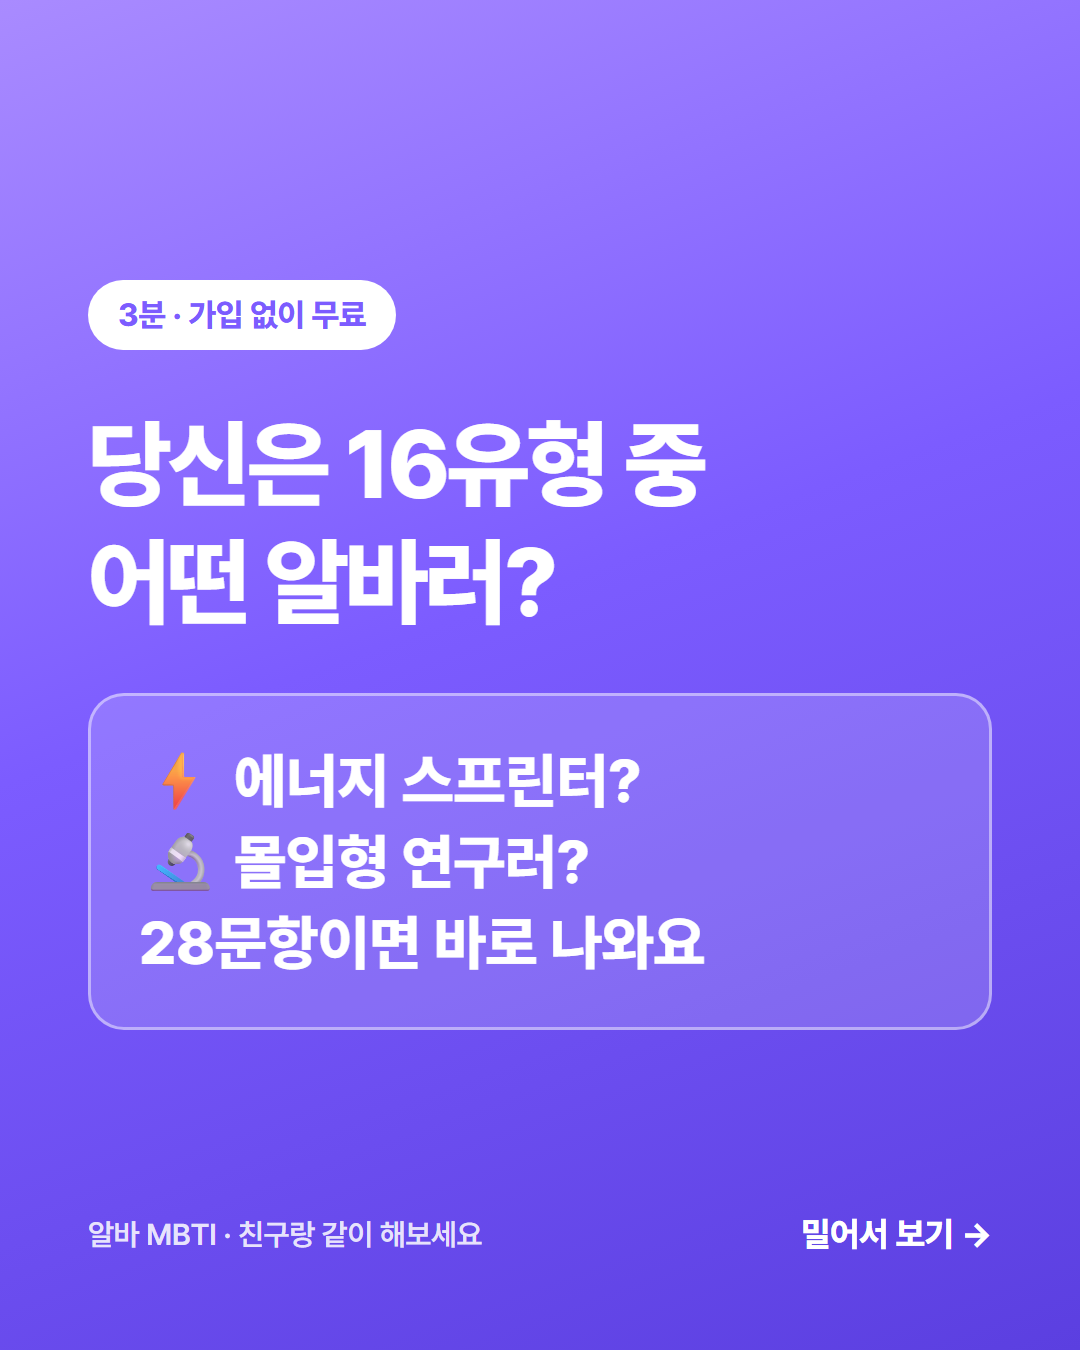
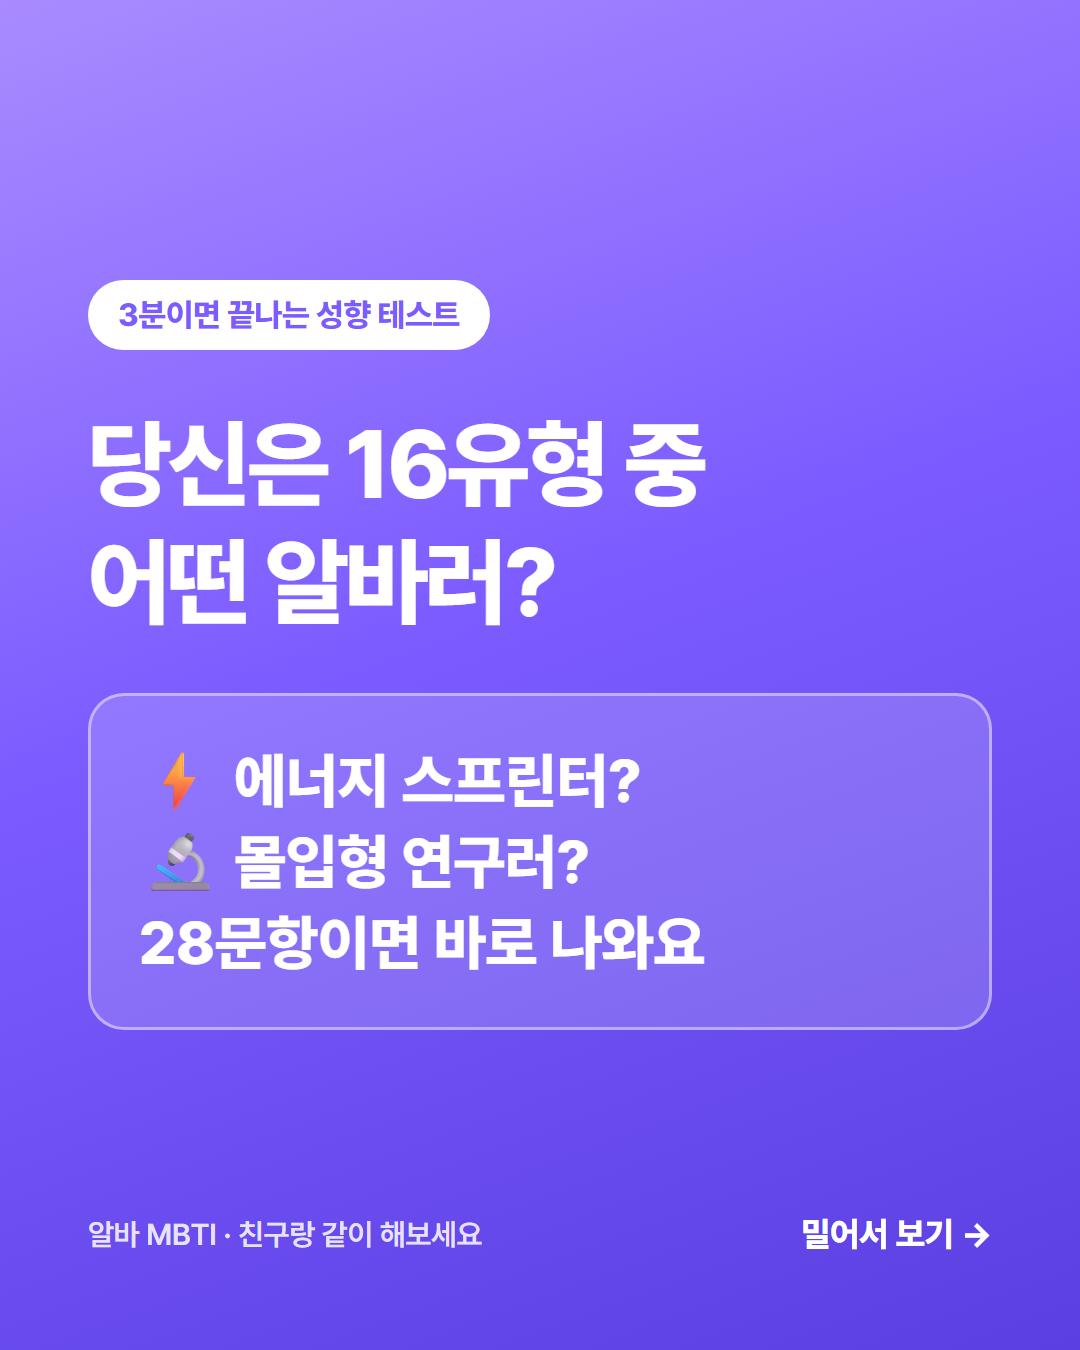
chore: 홍보물·앱 문구에서 가격 소구(무료·결제·가입 없이) 제거
로그인 게이트가 생겨 가입 없이 볼 수 없고, 과금 정책도 다시 바뀔 수 있다.
홍보물이 그때마다 발목 잡히지 않도록 가격 얘기를 아예 빼고 내용 가치로만 소구한다.

- 카드뉴스 4세트: CTA/커버 배지/캡션의 무료·결제·가입 문구 삭제, 해시태그 #무료테스트 제거
- og/twitter/description 메타: 가격 문구 삭제
- 앱: MBTI 시작 화면 안내와 심화 가이드 무료 배지(→ 11편)를 내용 기준으로 교체
- intro.md: 소개글 전 포맷 갱신 + 카피 원칙(가격 언급 금지) 명시

고용노동부 1350 무료 상담처럼 앱이 아닌 정부 서비스의 무료 언급은 사실이라 유지한다.

Changed region(s): [[0.1528, 0.1867, 0.4583, 0.28]]

diff --git a/promo/slides.js b/promo/slides.js
@@ -1,6 +1,7 @@
 /* 인스타 홍보 카드뉴스 데이터 — 앱(public/index.html)의 GUIDE 내용을 근거로 작성.
    4개 캐러셀 세트, 각 슬라이드 1080x1350(4:5).
-   앱은 전면 무료(가입·결제 없음) — 카피 전반에서 이 점을 훅으로 쓴다.
+   카피에서 가격 얘기(무료·결제·가입 없이)는 하지 않는다. 로그인해야 내용을 볼 수 있고,
+   과금 정책도 바뀔 수 있어서 홍보물이 발목 잡히지 않게 내용 가치로만 소구한다.
    수치는 앱과 일치: 28문항 · 16유형 · 알바 43종 · 심화 가이드 11편. */
 
 module.exports = [
@@ -29,15 +30,15 @@ module.exports = [
 28문항 3분이면 내 유형이 나와요. 이모지·별명이 붙은 내 유형 해설, 4축 성향 그래프, 그리고 알바 43종 중에서 고른 찰떡 알바 TOP 3까지. 반대로 '나랑 상극인 알바'도 알려줘요 😅
 
 결과 캡처해서 친구 유형이랑 비교해보세요. 같이 일하면 잘 맞을지도 보여요.
-👉 albamates.com (프로필 링크) · 가입도 결제도 없이 무료
+👉 albamates.com (프로필 링크)
 
 내 유형 댓글로 남겨주세요! 다들 뭐 나왔어요? 👇
 
-#알바MBTI #알바 #첫알바 #알바추천 #성향테스트 #MBTI #심리테스트 #유형테스트 #대학생알바 #알바생 #알바메이트 #무료테스트 #친구태그 #저장각`,
+#알바MBTI #알바 #첫알바 #알바추천 #성향테스트 #MBTI #심리테스트 #유형테스트 #대학생알바 #알바생 #알바메이트 #친구태그 #저장각`,
     slides: [
       {
         type: "cover",
-        kicker: "3분 · 가입 없이 무료",
+        kicker: "3분이면 끝나는 성향 테스트",
         title: "당신은 16유형 중\n어떤 알바러?",
         highlight: "⚡ 에너지 스프린터?\n🔬 몰입형 연구러?\n28문항이면 바로 나와요",
         foot: "알바 MBTI · 친구랑 같이 해보세요",
@@ -87,9 +88,9 @@ module.exports = [
       {
         type: "cta",
         title: "당신은\n어떤 유형일까요?",
-        body: "28문항 3분 · 16유형 중 내 유형.\n가입도 결제도 없이 결과까지 무료.",
+        body: "28문항 3분 · 16유형 중 내 유형.\n찰떡인 알바 TOP 3까지 알려드려요.",
         app: "알바 메이트",
-        foot: "albamates.com · 100% 무료",
+        foot: "albamates.com",
       },
     ],
   },
@@ -105,7 +106,7 @@ module.exports = [
 
 "알바는 주휴수당 없다"는 그냥 틀린 말이에요. 5인 미만 사업장도 예외 없이 지급 대상입니다. 시급에 자동으로 포함해주지 않으면 따로 청구할 수 있고, 못 받았다면 그건 임금체불이에요. 고용노동부 1350에서 무료로 상담·진정할 수 있습니다.
 
-내 시급으로 얼마인지 궁금하다면 → 프로필 링크의 '알바 메이트'에 주휴수당·야간수당까지 더해서 월 예상 급여를 뽑아주는 월급 계산기가 있어요. 계약서·최저시급·면접 가이드까지 전부 무료예요.
+내 시급으로 얼마인지 궁금하다면 → 프로필 링크의 '알바 메이트'에 주휴수당·야간수당까지 더해서 월 예상 급여를 뽑아주는 월급 계산기가 있어요. 계약서·최저시급·면접 가이드까지 한 곳에 정리돼 있어요.
 
 #알바 #주휴수당 #알바꿀팁 #알바생 #최저시급 #근로계약서 #임금체불 #알바초보 #대학생알바 #첫알바 #알바메이트 #노동법 #시급계산기 #저장각`,
     slides: [
@@ -114,7 +115,7 @@ module.exports = [
       { type: "list", n: "02", head: "조건은 딱 2개예요", items: ["1주 소정근로시간이 15시간 이상", "그 주에 정해진 근무일을 개근", "지각·조퇴는 대체로 개근으로 인정돼요"] },
       { type: "calc", n: "03", head: "얼마나 더 받나요?", rows: [["주 5일 · 하루 4시간", "= 주 20시간"], ["주휴수당 = 하루치(4시간)", "= 41,280원"], ["한 달(약 4.34주)이면", "약 179,000원"]], note: "2026년 최저시급 10,320원 기준", big: "한 달 +17만 원" },
       { type: "list", n: "04", head: "못 받고 있다면", items: ["시급에 자동 포함이 아니면 따로 청구 가능", "미지급은 임금체불 — 참을 이유가 없어요", "고용노동부 1350 — 무료 상담·진정"], warn: "5인 미만 사업장도 예외 없이 지급 대상이에요." },
-      { type: "cta", title: "내 시급으론\n얼마일까?", body: "주휴수당·야간수당까지 더해주는 월급 계산기.\n계약서·최저시급·면접 가이드까지 전부 무료.", app: "알바 메이트", foot: "albamates.com · 100% 무료" },
+      { type: "cta", title: "내 시급으론\n얼마일까?", body: "주휴수당·야간수당까지 더해주는 월급 계산기.\n계약서·최저시급·면접 가이드까지 한 곳에.", app: "알바 메이트", foot: "albamates.com" },
     ],
   },
 
@@ -132,7 +133,7 @@ module.exports = [
 
 지키는 법은 간단해요. 급여는 반드시 계좌이체로 받고(이체내역이 곧 증거), 근로계약서와 문자 기록을 남겨두세요. 이상하다 싶으면 플랫폼 신고 / 경찰 112 / 고용노동부 1350 — 상담은 전부 무료입니다.
 
-첫 알바라 뭐가 정상인지 감이 안 온다면 → 프로필 링크의 '알바 메이트'에서 계약서·급여·면접까지 확인하세요. 가입도 결제도 없어요.
+첫 알바라 뭐가 정상인지 감이 안 온다면 → 프로필 링크의 '알바 메이트'에서 계약서·급여·면접까지 확인하세요.
 
 #알바 #알바사기 #알바꿀팁 #첫알바 #알바초보 #구직 #대학생알바 #고수익알바주의 #근로계약서 #알바메이트 #안전한알바 #대포통장주의 #저장각`,
     slides: [
@@ -141,7 +142,7 @@ module.exports = [
       { type: "point", n: "02", head: "왜 위험하냐면", body: "정상적인 알바는\n일 시작 전에 돈을 요구하지 않아요.", note: "신분증·통장을 넘기면 대포통장이나\n명의도용에 쓰일 수 있어요.\n피해자가 아니라 가담자로 조사받기도 해요." },
       { type: "list", n: "03", head: "나를 지키는 3가지", items: ["급여는 반드시 계좌이체로 — 이체내역이 증거", "근로계약서와 문자 기록을 남겨두기", "현금 지급 요구는 정중히 거절하기"] },
       { type: "calc", n: "04", head: "이상하다 싶으면", rows: [["알바 플랫폼", "신고하기"], ["경찰", "112"], ["고용노동부", "1350"]], note: "상담은 전부 무료예요", big: "혼자 참지 마세요" },
-      { type: "cta", title: "뭐가 정상인지\n모르겠다면", body: "계약서 · 급여 · 면접까지\n알바 초보를 위한 안내서.\n가입도 결제도 없이 전부 무료.", app: "알바 메이트", foot: "albamates.com · 100% 무료" },
+      { type: "cta", title: "뭐가 정상인지\n모르겠다면", body: "계약서 · 급여 · 면접까지\n알바 초보를 위한 안내서.", app: "알바 메이트", foot: "albamates.com" },
     ],
   },
 
@@ -161,7 +162,7 @@ module.exports = [
 
 구두 약속은 효력이 약해요. 시급이든 근무시간이든, 최소한 문자·메신저로라도 남겨두세요. 급여 다툼이 생겼을 때 나를 지켜주는 건 결국 기록이에요.
 
-알바가 처음이라면 → 프로필 링크의 '알바 메이트'에서 계약서 독소조항부터 임금체불 신고까지 심화 가이드 11편을 무료로 볼 수 있어요.
+알바가 처음이라면 → 프로필 링크의 '알바 메이트'에서 계약서 독소조항부터 임금체불 신고까지 심화 가이드 11편을 볼 수 있어요.
 
 #알바 #근로계약서 #알바꿀팁 #첫알바 #알바초보 #노동법 #주휴수당 #최저시급 #대학생알바 #알바메이트 #임금체불 #저장각 #정보공유`,
     slides: [
@@ -170,7 +171,7 @@ module.exports = [
       { type: "point", n: "02", head: "가장 중요한 한 가지", body: "쓰고 끝이 아니에요.\n반드시 1부를 '받아서'\n보관하세요.", note: "교부는 사업주의 의무예요.\n휴대폰으로 찍어 클라우드에도 저장해두면 든든." },
       { type: "calc", n: "03", head: "안 써주면\n어떻게 되나요?", rows: [["근로계약서 미작성", "과태료 대상"], ["계약서 미교부", "과태료 대상"]], note: "사업주에게 부과되는 과태료예요", big: "500만 원 이하" },
       { type: "list", n: "04", head: "이것도 챙기세요", items: ["구두 약속은 효력이 약해요 — 문자로 남기기", "서명 전, 시급·시간이 말한 것과 같은지 재확인", "다툼이 생겼을 때 나를 지켜주는 건 기록이에요"] },
-      { type: "cta", title: "알바가\n처음이라면", body: "계약서 독소조항부터 임금체불 신고까지\n심화 가이드 11편.\n가입도 결제도 없이 전부 무료.", app: "알바 메이트", foot: "albamates.com · 100% 무료" },
+      { type: "cta", title: "알바가\n처음이라면", body: "계약서 독소조항부터 임금체불 신고까지\n심화 가이드 11편.", app: "알바 메이트", foot: "albamates.com" },
     ],
   },
 ];

diff --git a/public/index.html b/public/index.html
@@ -4,21 +4,21 @@
 <meta charset="UTF-8" />
 <meta name="viewport" content="width=device-width, initial-scale=1.0, maximum-scale=1.0, user-scalable=no, viewport-fit=cover" />
 <title>알바 메이트 — 알바 초보를 위한 안내서</title>
-<meta name="description" content="알바 유형 43종을 직종별로 안내하고, 근로계약·최저시급·면접·급여 등 꼭 알아둘 실전 가이드까지. 28문항 알바 MBTI로 나에게 맞는 알바도 찾아드려요. 가입도 결제도 없이 전부 무료." />
+<meta name="description" content="알바 유형 43종을 직종별로 안내하고, 근로계약·최저시급·면접·급여 등 꼭 알아둘 실전 가이드까지. 28문항 알바 MBTI로 나에게 맞는 알바도 찾아드려요. 알바가 처음인 사람을 위한 안내서." />
 <!-- SEO / 링크 미리보기 (카카오톡·페북·트위터 공유 시 카드) -->
 <link rel="canonical" href="https://albamates.com/" />
 <meta property="og:type" content="website" />
 <meta property="og:site_name" content="알바 메이트" />
 <meta property="og:url" content="https://albamates.com/" />
 <meta property="og:title" content="알바 메이트 — 알바 초보를 위한 안내서" />
-<meta property="og:description" content="알바 유형 43종 직종별 안내 + 근로계약·최저시급·면접·급여 실전 가이드. 28문항 알바 MBTI까지 — 가입도 결제도 없이 전부 무료." />
+<meta property="og:description" content="알바 유형 43종 직종별 안내 + 근로계약·최저시급·면접·급여 실전 가이드. 28문항 알바 MBTI로 나에게 맞는 알바 찾기." />
 <meta property="og:image" content="https://albamates.com/og-image.png?v=1" />
 <meta property="og:image:width" content="1200" />
 <meta property="og:image:height" content="630" />
 <meta property="og:locale" content="ko_KR" />
 <meta name="twitter:card" content="summary_large_image" />
 <meta name="twitter:title" content="알바 메이트 — 알바 초보를 위한 안내서" />
-<meta name="twitter:description" content="알바 유형 43종 직종별 안내 + 근로계약·최저시급·면접·급여 실전 가이드. 28문항 알바 MBTI까지 — 가입도 결제도 없이 전부 무료." />
+<meta name="twitter:description" content="알바 유형 43종 직종별 안내 + 근로계약·최저시급·면접·급여 실전 가이드. 28문항 알바 MBTI로 나에게 맞는 알바 찾기." />
 <meta name="twitter:image" content="https://albamates.com/og-image.png?v=1" />
 <!-- PWA -->
 <link rel="manifest" href="/manifest.webmanifest" />
@@ -666,8 +666,9 @@ const GLOSSARY = [
 ];
 
 /* ============================================================
-   프리미엄 가이드(유료) — 무료보다 훨씬 깊고 상세한 심화 가이드.
-   결제(프리미엄) 후에만 열람. sections[{h, body?, points?}]
+   심화 가이드 — 기본 상식(BASICS)보다 훨씬 깊고 상세한 편들.
+   변수명 PREMIUM 은 유료 시절의 잔재다(지금은 로그인만 하면 전부 열린다).
+   sections[{h, body?, points?}]
    ============================================================ */
 const PREMIUM = [
   /* ---------------------------------------------------------------- 1. 주휴수당 */
@@ -1484,17 +1485,17 @@ function TypesTab({ onGuide, initial }) {
 }
 
 /* 가이드 탭 — 심화 가이드 + 기본 상식 + 실전 꿀팁 + 용어 사전.
-   가이드·유형·알바 MBTI 결과까지 전부 무료다. */
+   로그인해야 앱 안으로 들어올 수 있다(AuthGate). */
 function GuideTab({ onGuide }) {
   return (
     <div className="pb-24 bg-gray-50 min-h-screen">
       <PageHead tag="알바 가이드" title="알바 가이드" sub="계약·급여·응대까지, 초보가 알아야 할 모든 것" />
 
-      {/* 심화 가이드 — 전면 무료 공개 */}
+      {/* 심화 가이드 */}
       <div className="bg-white px-5 py-5 mt-2">
         <div className="flex items-center gap-2">
           <h2 className="text-lg font-bold text-gray-900">📕 심화 가이드</h2>
-          <span className="text-[11px] font-bold text-white bg-brand px-2 py-0.5 rounded-full">무료</span>
+          <span className="text-[11px] font-bold text-white bg-brand px-2 py-0.5 rounded-full">{PREMIUM.length}편</span>
         </div>
         <p className="text-xs text-gray-400 mt-0.5">계약서 독소조항부터 임금체불 신고까지, 깊고 상세하게 {PREMIUM.length}편</p>
         <div className="mt-3 divide-y divide-gray-100">
@@ -1643,7 +1644,7 @@ function MbtiIntro({ onStart, prev }) {
           16가지 유형 중 내 유형과,<br/>잘 맞는 알바 추천·가이드까지.
         </p>
         <p className="text-white/70 text-xs mt-3">
-          {QUIZ.length}문항 · 3분 · 결과 리포트까지 전부 무료
+          {QUIZ.length}문항 · 3분 · 16유형 중 내 유형과 추천 알바 TOP 3
         </p>
       </div>
 
@@ -2715,7 +2716,7 @@ function AuthGate({ onAuthed }) {
         </div>
 
         <p className="mt-5 text-[12px] text-gray-400 leading-relaxed text-center">
-          이용료는 없어요. 계정을 만들면 알바 MBTI 결과가 저장되어<br/>다른 기기에서도 이어서 볼 수 있어요.
+          계정을 만들면 알바 MBTI 결과가 저장되어<br/>다른 기기에서도 이어서 볼 수 있어요.
         </p>
       </div>
     </div>

diff --git a/promo/intro.md b/promo/intro.md
@@ -2,14 +2,17 @@
 
 앱 사실관계(2026-07 기준): 알바 MBTI 28문항·16유형 / 알바 43종 / 심화 가이드 11편 /
 월급 계산기(주휴·야간수당 포함, 2026년 최저시급 10,320원) / FAQ / 용어 사전.
-**전면 무료 · 가입 없이 바로 사용**(계정은 결과를 다른 기기에서 이어보고 싶을 때만 선택).
+**이메일 계정으로 로그인해야 내용을 볼 수 있다**(초기화면이 로그인/회원가입).
 주소: albamates.com · 홈 화면에 추가하면 앱처럼 쓸 수 있어요(PWA).
+
+> 카피 원칙: **가격 얘기(무료·결제·가입 없이)는 쓰지 않는다.** 로그인 벽이 있고
+> 과금 정책도 바뀔 수 있어서, 홍보물이 발목 잡히지 않게 내용 가치로만 소구한다.
 
 ---
 
 ## 1. 한 줄 소개
 
-> 알바 초보를 위한 안내서 — 내 알바 유형 찾기부터 계약서·주휴수당까지, 전부 무료.
+> 알바 초보를 위한 안내서 — 내 알바 유형 찾기부터 계약서·주휴수당까지.
 
 대안:
 - 첫 알바, 뭘 모르는지도 모를 때 여는 앱.
@@ -25,7 +28,7 @@
 🧬 알바 MBTI — 28문항으로 찾는 내 유형
 🧮 주휴수당까지 계산하는 월급 계산기
 📕 계약서·임금체불 심화 가이드 11편
-가입 없이 100% 무료 👇
+👇 지금 확인하기
 ```
 (링크: albamates.com)
 
@@ -33,7 +36,7 @@
 ```
 알바 메이트 🍀 | 알바 초보를 위한 안내서
 알바 MBTI · 월급 계산기 · 계약서 가이드
-가입도 결제도 없이 전부 무료 👇
+첫 알바 전에 꼭 알아야 할 것들 👇
 ```
 
 ---
@@ -42,15 +45,15 @@
 
 > 알바 메이트는 첫 알바가 막막한 사람들을 위한 안내서예요.
 > 28문항 알바 MBTI로 나에게 맞는 알바를 알바 43종 중에서 추천해주고,
-> 주휴수당까지 더한 월급 계산기와 계약서·임금체불 가이드를 볼 수 있어요. 전부 무료예요 → albamates.com
+> 주휴수당까지 더한 월급 계산기와 계약서·임금체불 가이드도 볼 수 있어요 → albamates.com
 
 ---
 
 ## 4. 커뮤니티 홍보글 (에브리타임·대학 커뮤니티 본문)
 
 **제목 예시**
-- 알바하면서 주휴수당 못 받고 있는 사람 은근 많아요 (무료 계산기 만들었어요)
-- 첫 알바 고르기 전에 해보면 좋은 성향 테스트 만들었습니다 (무료)
+- 알바하면서 주휴수당 못 받고 있는 사람 은근 많아요 (계산기 만들었어요)
+- 첫 알바 고르기 전에 해보면 좋은 성향 테스트 만들었습니다
 
 **본문**
 
@@ -73,7 +76,6 @@
 알바 퇴직금, 해고·퇴사, 산재와 손님 갑질 대응, 이력서·면접까지.
 "말문 막힐 때 꺼내 쓰는 대본집"도 있어요.
 
-**가입도 결제도 없어요. 전부 무료입니다.**
 👉 albamates.com (모바일에서 '홈 화면에 추가'하면 앱처럼 써요)
 
 ---
@@ -92,12 +94,11 @@
 - 📕 **심화 가이드 11편** — 계약서 독소조항부터 임금체불 신고까지
 - ❓ **FAQ · 용어 사전** — "주휴수당 포함 시급이라는데요?" 같은 실전 질문
 
-가입 없이 바로 쓸 수 있고, 처음부터 끝까지 무료입니다.
-계정은 알바 MBTI 결과를 다른 기기에서 이어보고 싶을 때만 만들면 돼요.
+이메일 계정으로 시작하면 알바 MBTI 결과가 저장되어 다른 기기에서도 이어서 볼 수 있어요.
 
 ---
 
 ## 6. 카톡·DM 공유용 한 문단
 
 > 알바 처음이면 이거 한번 봐봐. 알바 MBTI로 나한테 맞는 알바 추천해주고,
-> 주휴수당 계산기랑 계약서 가이드도 있어. 가입도 결제도 없이 무료야 → albamates.com
+> 주휴수당 계산기랑 계약서 가이드도 있어 → albamates.com
